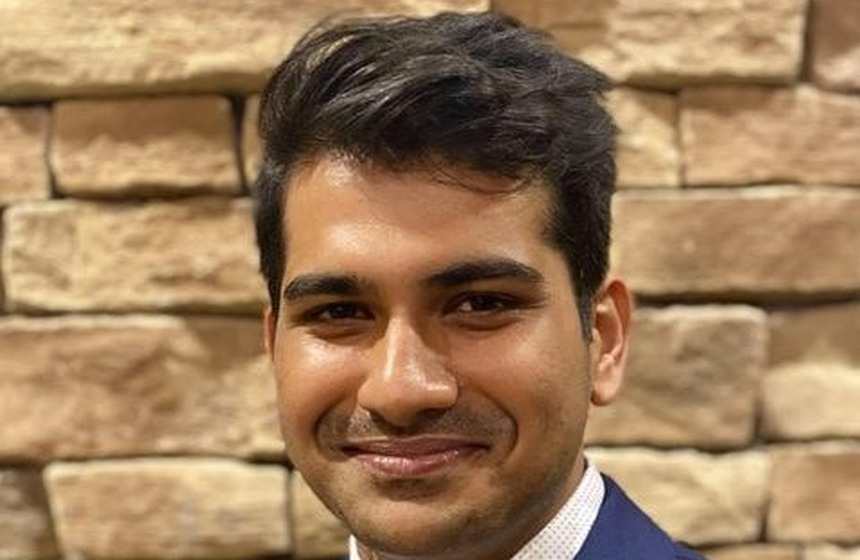
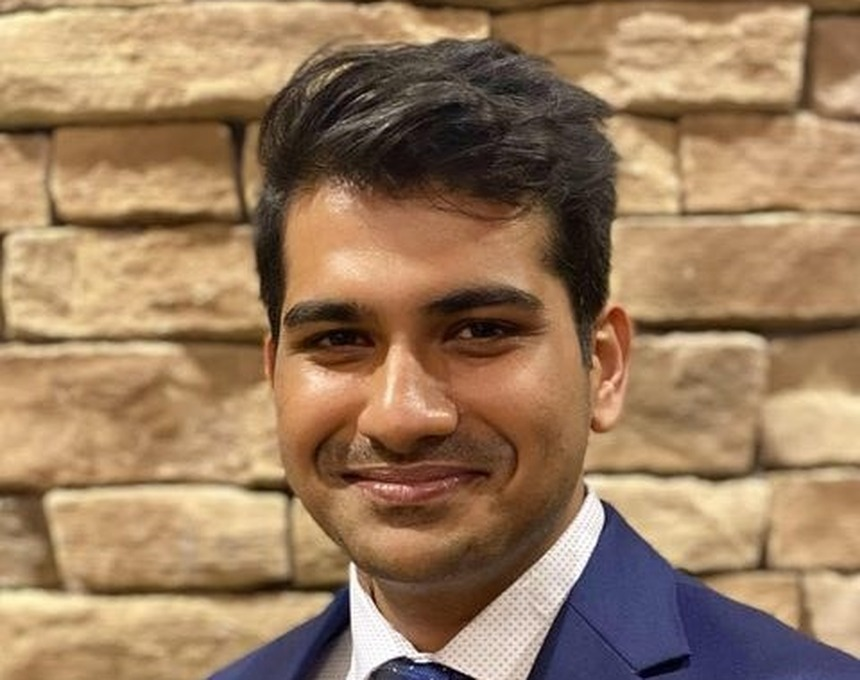
Add files via upload

diff --git a/team.html b/team.html
@@ -158,11 +158,11 @@
 
     <!-- Leadership: Tanmay Jain -->
     <div class="leader-card reveal reveal-d1">
-      <div class="leader-hero">
-        <img src="assets/images/tanmay-jain-wide.jpg" alt="Tanmay Jain, PhD, Founder and Chief Scientist of Tacticity Advisors" width="860" height="560" loading="lazy" decoding="async">
+      <div class="leader-hero leader-hero--tall">
+        <img src="assets/images/tanmay-jain-wide.jpg" alt="Tanmay Jain, PhD, Founder and Chief Scientist of Tacticity Advisors" width="860" height="680" loading="lazy" decoding="async">
         <div class="leader-hero-overlay">
           <p class="leader-name">Tanmay Jain, PhD</p>
-          <p class="leader-role">Founder &amp; Chief Scientist<br>Former U.S. FDA CDRH Scientist &amp; Lead Reviewer</p>
+          <p class="leader-role">Founder &amp; Chief Scientist</p>
         </div>
       </div>
       <p class="leader-summary">Tanmay is a polymer scientist and former U.S. FDA CDRH scientist and lead reviewer, now based in Pune, India. His work at FDA's Center for Devices and Radiological Health included scientific review of premarket submissions, materials evaluation, biocompatibility, chemical characterization, and standards development, including ASTM F3718. He founded Tacticity to bring the scientific rigor of the U.S. FDA review process directly to the Indian medtech ecosystem. For Tanmay, regulatory strategy is a structured technical argument that must withstand expert review, not paperwork.</p>

diff --git a/styles.css b/styles.css
@@ -1105,6 +1105,7 @@ body.bg-pathway, body.bg-lattice, body.bg-docs, body.bg-evidence, body.bg-newsle
 .leader-card:last-of-type { margin-bottom: 0; }
 .leader-card:hover { box-shadow: 0 18px 38px rgba(23,23,26,.07); }
 .leader-hero { position: relative; width: 100%; height: 560px; overflow: hidden; }
+.leader-hero--tall { height: 680px; }
 .leader-hero img { width: 100%; height: 100%; object-fit: cover; object-position: center center; transition: transform .6s var(--ease); }
 .leader-card:hover .leader-hero img { transform: scale(1.03); }
 .leader-hero-overlay {
@@ -1141,6 +1142,7 @@ body.bg-pathway, body.bg-lattice, body.bg-docs, body.bg-evidence, body.bg-newsle
 
 @media (max-width: 600px) {
   .leader-hero { height: 340px; }
+  .leader-hero--tall { height: 400px; }
   .leader-hero-overlay { padding: 1.5rem 1.75rem; }
   .leader-name { font-size: 1.7rem; }
   .leader-role { font-size: .74rem; }
